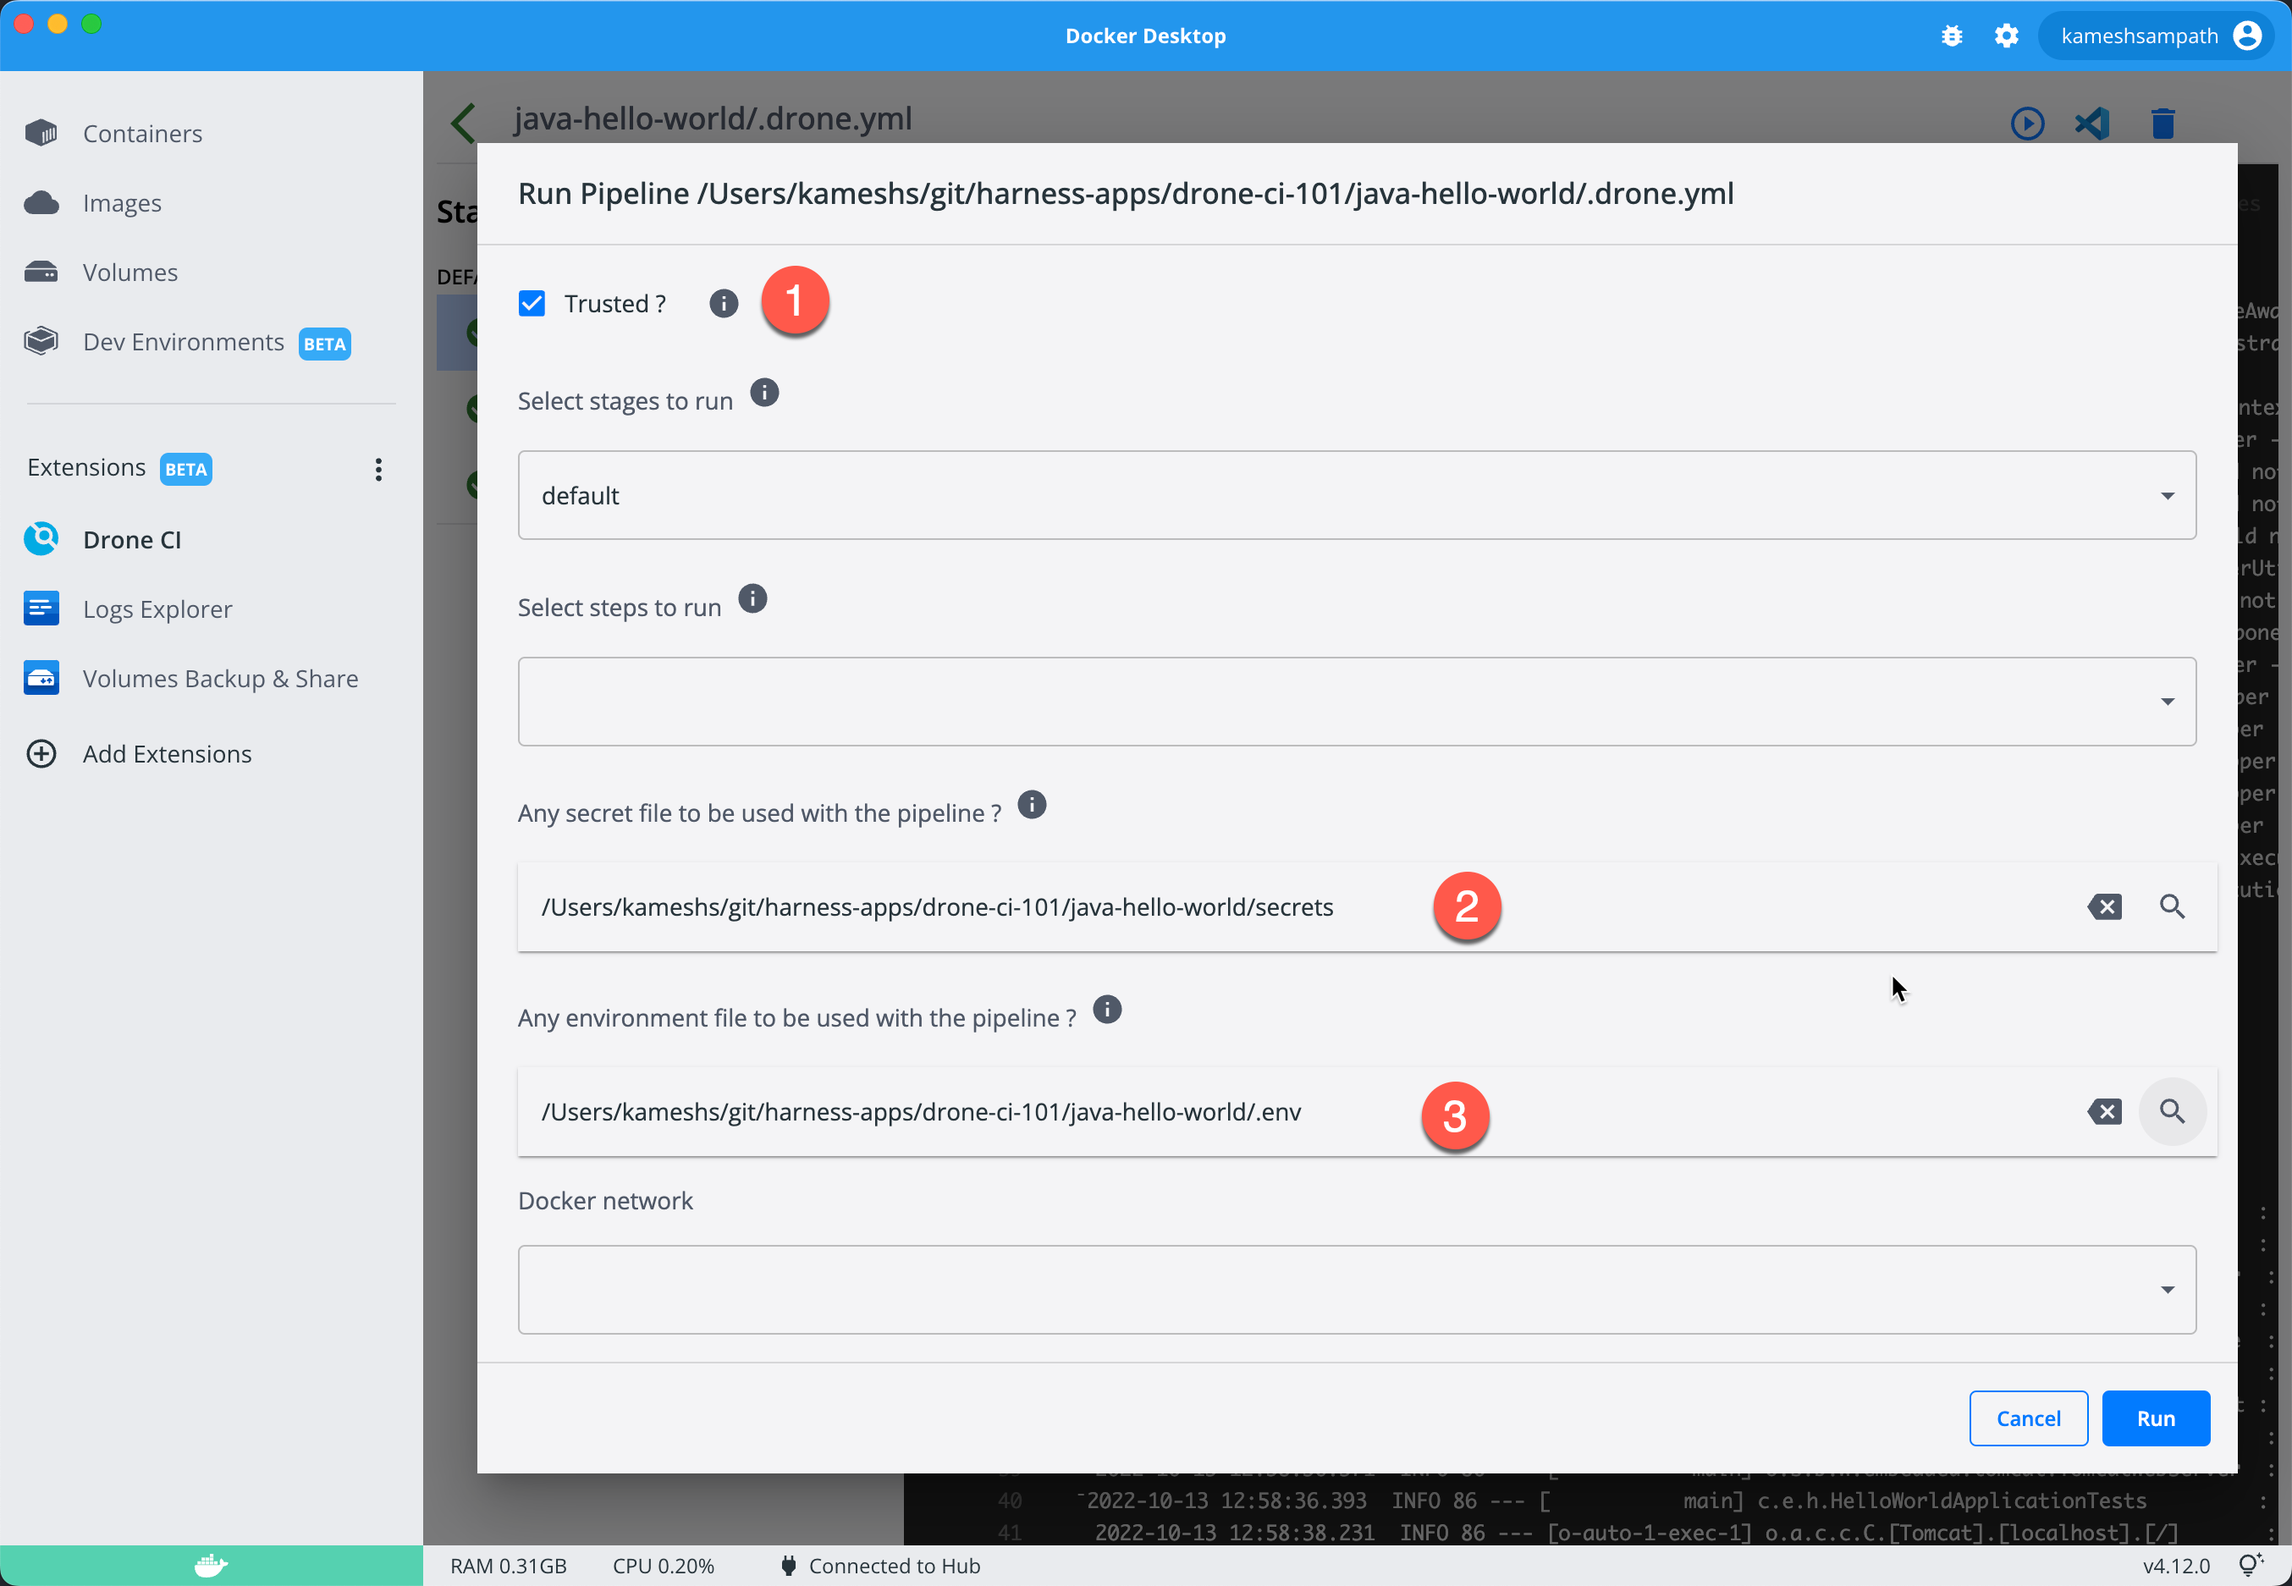
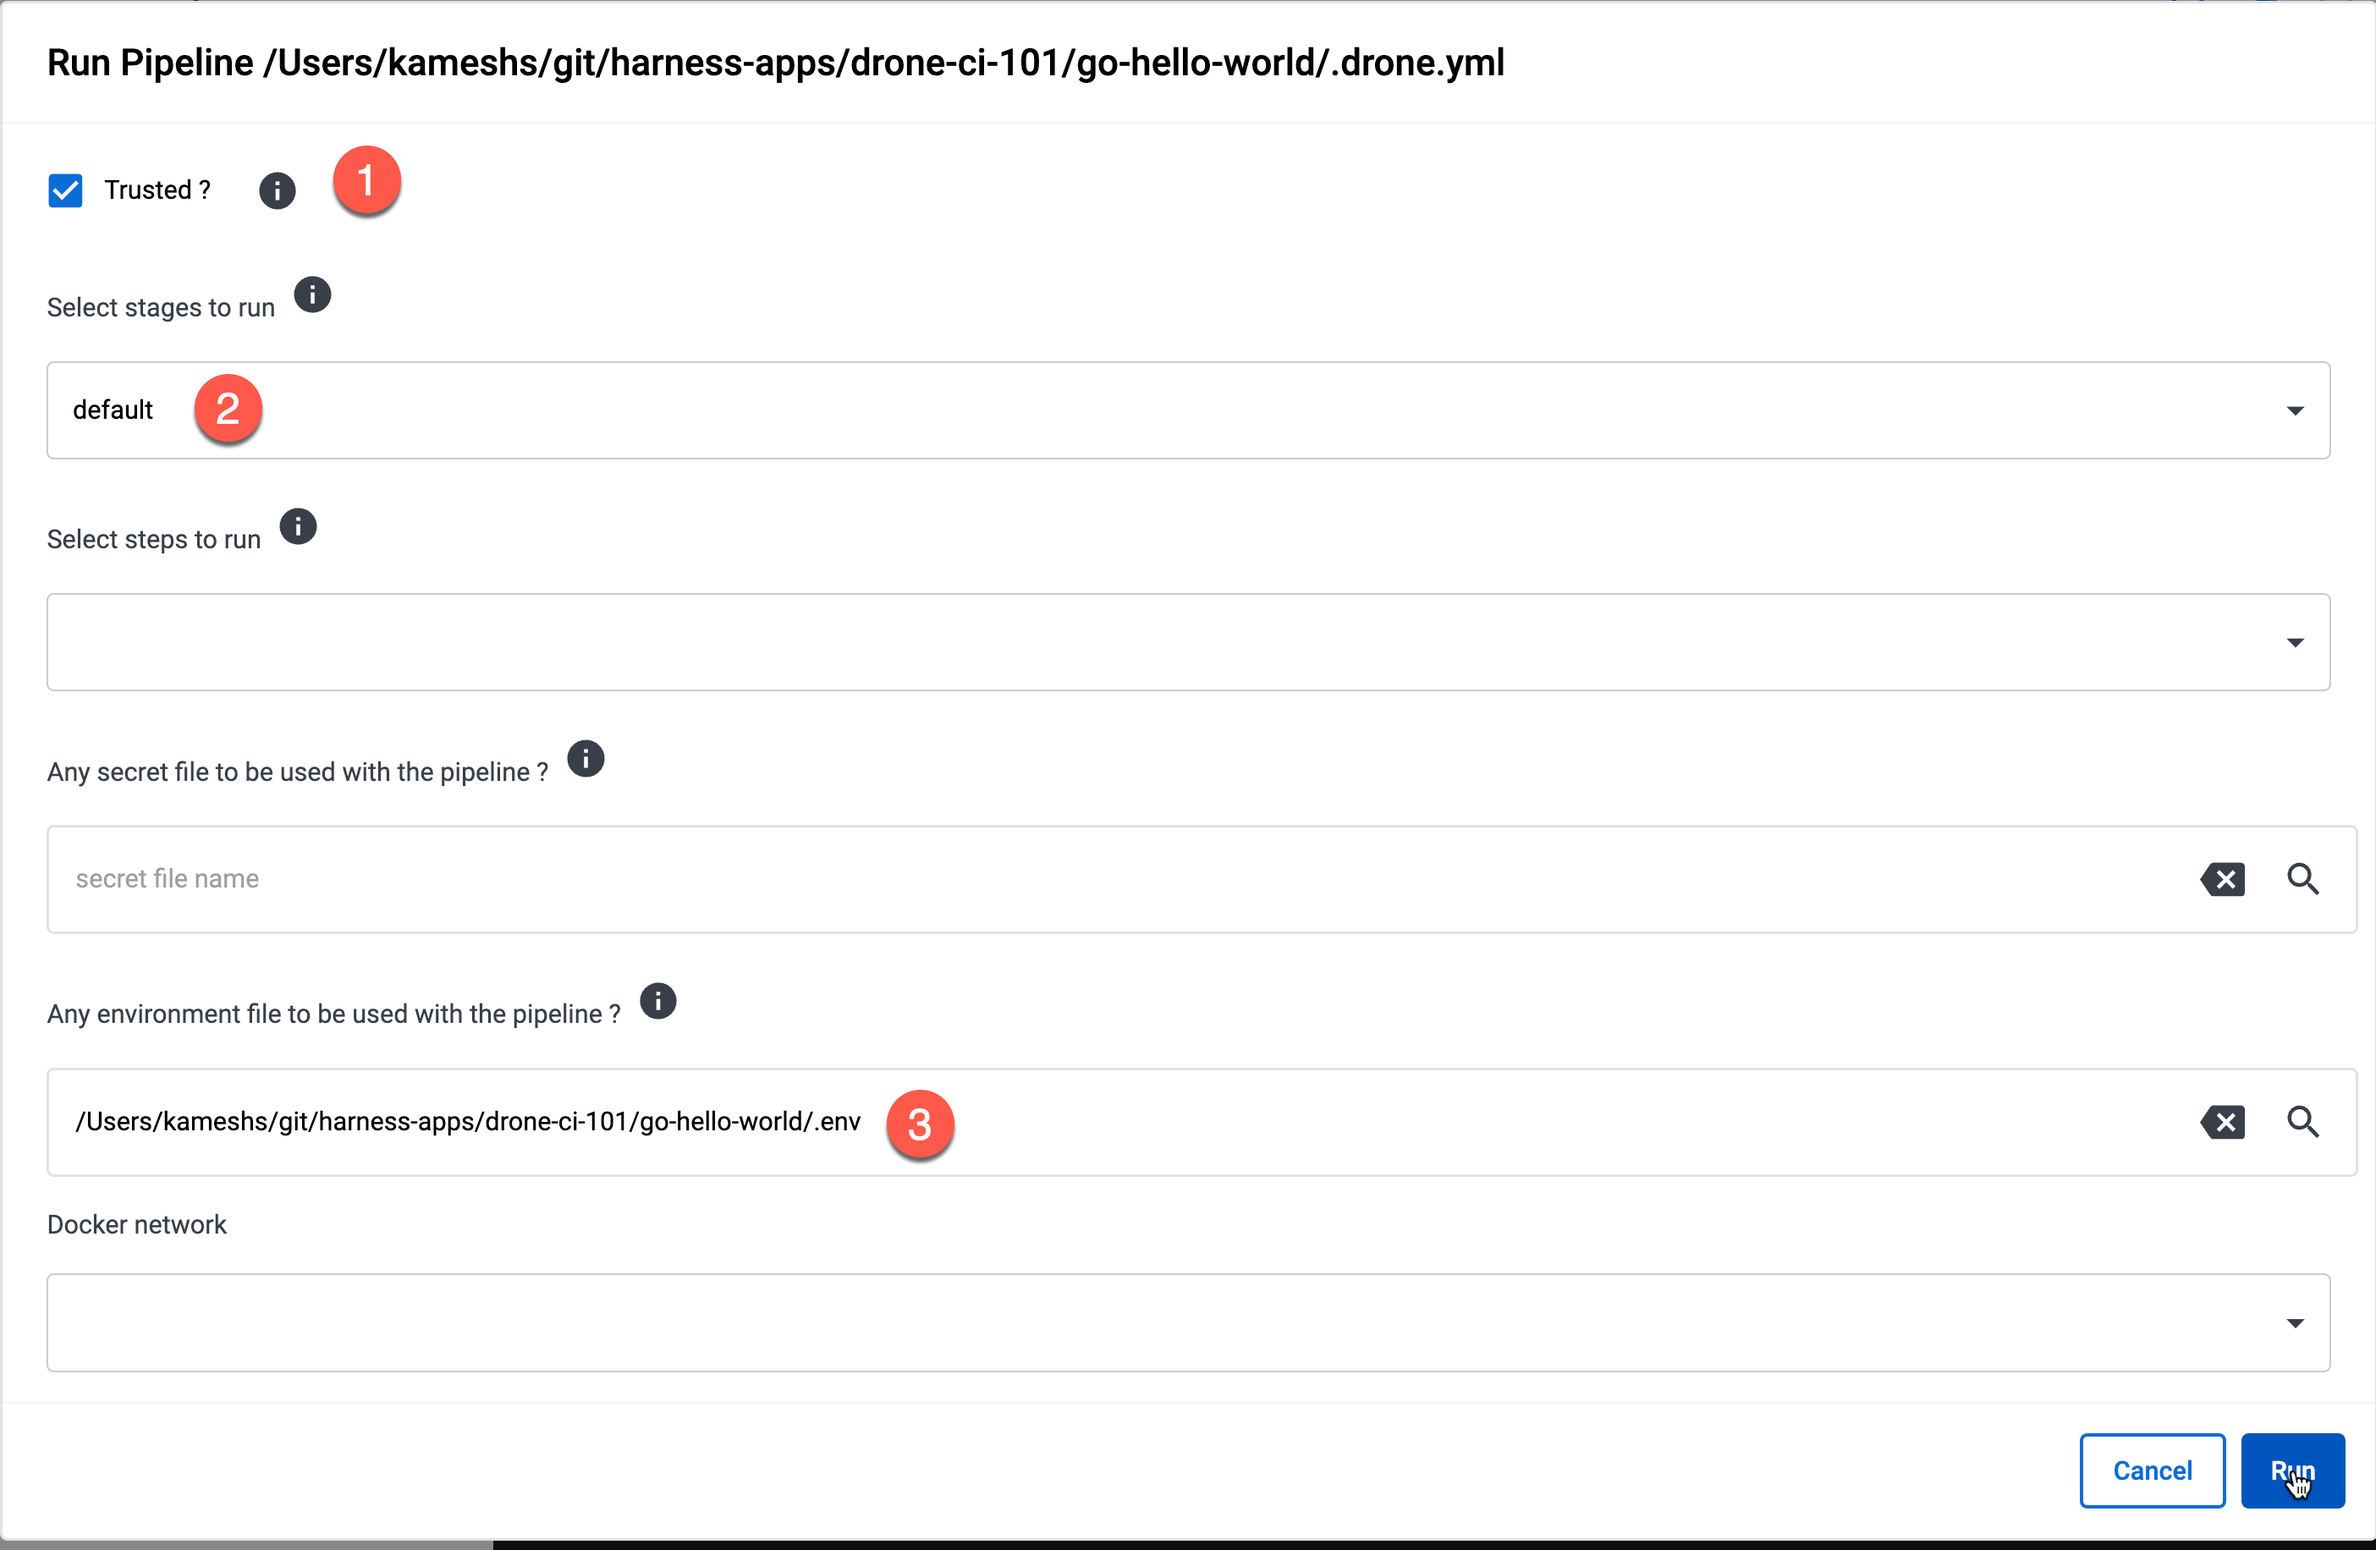
chore: refactor update screen shots

diff --git a/02-getting-started-with-drone-ci/assignment.md b/02-getting-started-with-drone-ci/assignment.md
@@ -58,7 +58,7 @@ Check if you are able to access and use `drone` binary,
 drone --version
 ```
 
-The command should show an output like `v1.6.2`.
+The command should show an output like `drone version 1.6.2`.
 
 Ensure Environment
 ==================
@@ -67,7 +67,7 @@ Ensure Environment
 docker --version
 ```
 
-The command should show an output like `Docker version 20.10.12, build e91ed57`
+The command should show an output like `Docker version 20.10.21, build baeda1f`
 
 Writing Pipelines
 ==================
@@ -140,7 +140,13 @@ steps:
   - echo 'Good bye'
 ```
 
-Try running the `drone exec` command again to see the output as shown,
+Try running the `drone` command again,
+
+```shell
+drone exec
+```
+
+The pipeline run shows the following output,
 
 ```text
 [say hello:0] + echo 'Hello World'
@@ -152,7 +158,7 @@ Try running the `drone exec` command again to see the output as shown,
 Trusted mode
 ------------
 
-Trusted mode instructs `drone` to run in trusted mode typically with extra privileges.
+Trusted mode instructs `drone` to run in pipelines in privileged mode.
 
 When to use **trusted** mode ?
 
@@ -160,6 +166,7 @@ Lets take an example of building and pushing our application as a container imag
 
 - An application, with Dockerfile to build the container image
 - A local container registry, where the built image will be pushed. We already have container registry that we deployed as part of the first challenge.
+- Mount local folders onto the pipeline containers
 
 Pipeline
 --------
@@ -231,6 +238,18 @@ But to push to the local container registry we need the handle to the docker soc
 Build Application
 -----------------
 
+Let us try running the application without `trusted`,
+
+```shell
+drone exec
+```
+
+The command should fail with the following output,
+
+```text
+linter: untrusted repositories cannot mount host volumes
+```
+
 Build and push the image by running the command,
 
 ```shell
@@ -243,7 +262,11 @@ Once the pipeline is successful, you can test the built image by running the fol
 docker run --detach --name=hello-go -p8080:8080 localhost:5001/example/go-hello-world
 ```
 
-Now doing a `curl localhost:8080/hello-world` should return a response **Hello, World!**.
+Now doing a curl should return a response **Hello, World!**,
+
+```shell
+curl localhost:8080/hello-world
+```
 
 > **Plugins**:
 >

diff --git a/05-deploy-ci-cd-pipeline/assignment.md b/05-deploy-ci-cd-pipeline/assignment.md
@@ -190,7 +190,11 @@ Give a name to the Trigger say `hello-world-from-dockerhub` and configure it to 
 
 ![Configure Artifact](../assets/harness_cd_new_trigger_artifact_config.png)
 
-Click __Continue__ on the next two screens leaving others to defaults.
+Click __Continue__ on the next screen(s) leaving others to defaults.
+
+On the __Pipeline Input__ screen set the __Tag__ value to be an expression `<+trigger.artifact.build>`. That allows the pipeline to be triggered on very new image push to the registry,
+
+![Configure Artifact Tag](../assets/harness_cd_new_trigger_artifact_tag.png)
 
 ![New Trigger Complete](../assets/harness_cd_new_trigger_complete.png)
 
@@ -212,27 +216,27 @@ Reload the environment variables,
 direnv allow .
 ```
 
-If you have not imported the project on to Drone CI extension on Docker Desktop, import the project `java-hello-world`.
+If you have not imported the project on to Drone CI extension on Docker Desktop, import the project `go-hello-world`.
 
-Before running the pipeline create a file called `secrets` with the following content,
-
-<pre>
-image_registry_username: &lt;your docker hub user name&gt;
-image_registry_password: &lt;your docker hub password&gt;
-</pre>
-
->__IMPORTANT:__ The `image_registry_username` and `image_registry_password` should be the same that was used when configuring Docker Registry Connector.
+>__IMPORTANT:__
 
 Create a file called `.env` with the following values,
 
-<pre>
-PLUGIN_REPO=&lt;your image repo&gt;
+```shell
+PLUGIN_REGISTRY="$IMAGE_REGISTRY"
+PLUGIN_REPO="$IMAGE_REPO"
 PLUGIN_TAG=0.0.1
-</pre>
+PLUGIN_USERNAME="$IMAGE_REGISTRY_USERNAME"
+PLUGIN_PASSWORD="$IMAGE_REGISTRY_PASSWORD"
+```
 
->__IMPORTANT:__ The `PLUGIN_REPO` should be the same repository that you had configured in Harness CD as the  __Primary Artifact__'s __LOCATION__ value.
+>__IMPORTANT:__
+>
+> - The `PLUGIN_REPO` should be the same repository that you had configured in Harness CD as the  __Primary Artifact__'s __LOCATION__ value.
 >
 > ![PLUGIN_REPO](../assets/plugin_repo_artifact_mapping.png)
+>
+> - The `PLUGIN_USERNAME` and `PLUGIN_PASSWORD` should be the same that was used when configuring Docker Registry Connector.
 
 Run the Drone CI pipeline from Drone CI extension with following configuration,
 

diff --git a/04-setup-harness-cd/assignment.md b/04-setup-harness-cd/assignment.md
@@ -63,7 +63,18 @@ On the lab __Terminal__ navigate to `$TUTORIAL_HOME`,
 cd $TUTORIAL_HOME
 ```
 
-Edit the "$TUTORIAL_HOME/.envrc" using the __Editor__ tab and update the value `$DOCKERHUB_USERNAME` and `$DOCKERHUB_PASSWORD` to match your DockerHub credentials.
+Edit the "$TUTORIAL_HOME/.envrc" using the __Editor__ tab and add the following environment variable,
+
+```shell
+# your container image registry username
+export IMAGE_REGISTRY_USERNAME=
+# your container image registry user password
+export IMAGE_REGISTRY_PASSWORD=
+# image registry where we will push the image e.g ghcr.io
+export IMAGE_REGISTRY=
+# image repo where we will push the image e.g "$IMAGE_REGISTRY/$IMAGE_REGISTRY_USERNAME/drone-ci-cd-hello-world"
+export IMAGE_REPO=
+```
 
 Reload the environment variables to that the updated values are loaded.
 
@@ -75,14 +86,15 @@ Create and push a dummy image to the Docker repository,
 
 ```shell
 docker pull gcr.io/google-samples/hello-app:1.0
-docker tag gcr.io/google-samples/hello-app:1.0 "$DOCKERHUB_IMAGE_REPO:latest"
-echo -n "${DOCKERHUB_PASSWORD}" | docker login -u $DOCKERHUB_USERNAME --password-stdin
-docker push "$DOCKERHUB_IMAGE_REPO:latest"
+docker tag gcr.io/google-samples/hello-app:1.0 "$IMAGE_REPO:latest"
+echo -n "${IMAGE_REGISTRY_PASSWORD}" | docker login "$IMAGE_REGISTRY" -u $IMAGE_REGISTRY_USERNAME --password-stdin
+docker push "$IMAGE_REPO:latest"
 ```
 
 >__IMPORTANT:__
 >
 > - It is OK to push dummy image now as we will be pushing an updated image as part of the CI pipeline in upcoming sections
+> - Most of the container registries make the repositories private by default, make sure you mark them as public
 
 Register with Harness
 =====================
@@ -179,7 +191,7 @@ Docker Registry
 
 Click on the ![Add Text Secret](../assets/add_harness_cd_project_text_secret.png) to start adding new secret,
 
-Fill the details of the secret with name `my-dockerhub-password`, with Secret Value to be `$DOCKERHUB_PASSWORD` and click save to save the secret.
+Fill the details of the secret with name `my-dockerhub-password`, with Secret Value to be `$IMAGE_REGISTRY_PASSWORD` and click save to save the secret.
 
 ![Docker Registry Secret](../assets/harness_cd_project_docker_reg_secret.png)
 
